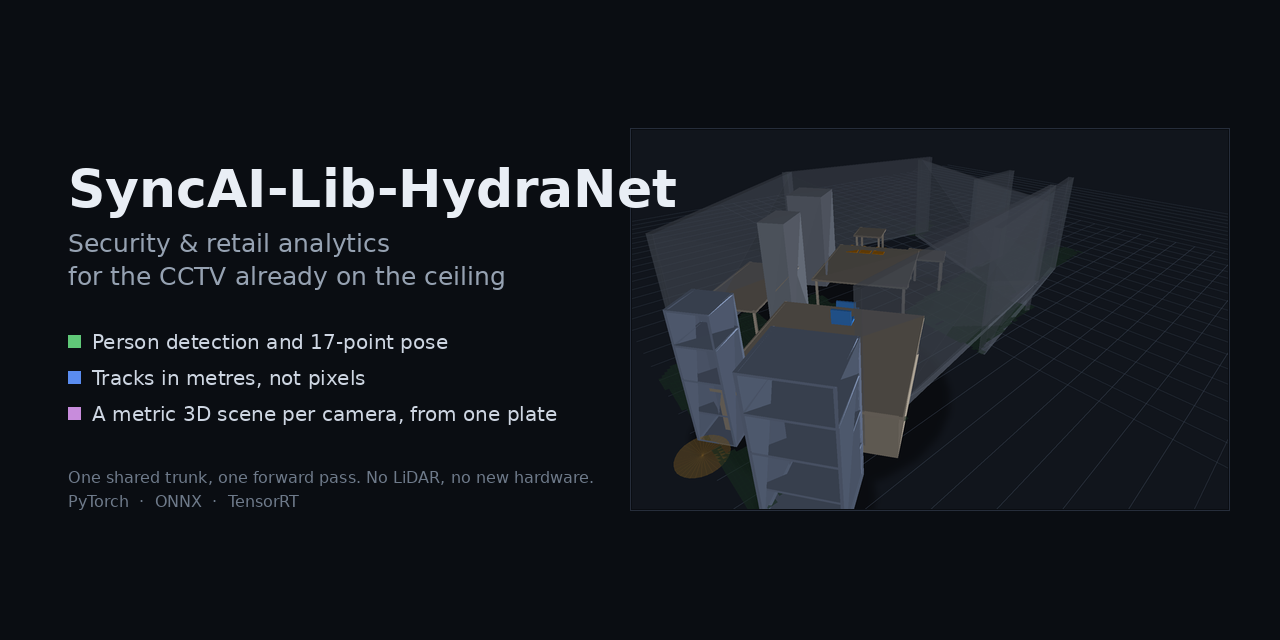
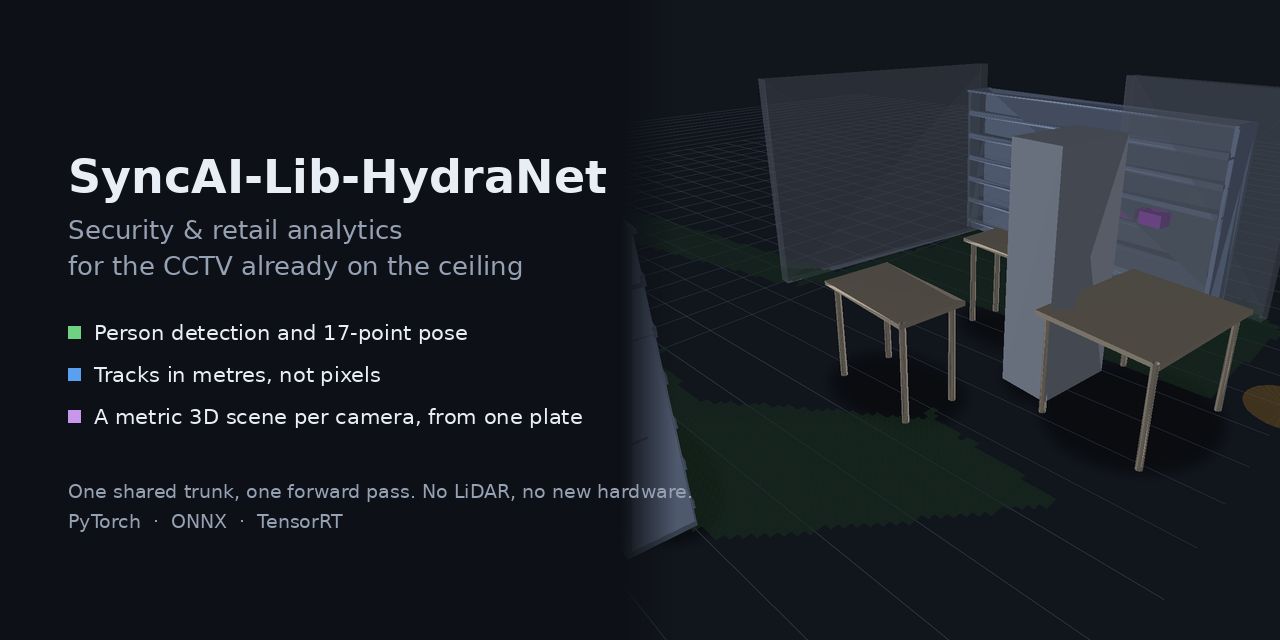
feat(assets): the social card is code, and it leads with a scene the overlay agrees with
`assets/social_preview.png` was made by hand -- the third figure in this repository to
have been, after the README gif and the blur that goes on it. A card nobody can re-make is
a card nobody re-checks when the scene behind it moves, and the scene moved four times on
2026-08-29 alone. The old one showed all three consequences at once: its 3D panel came
from the ragged world-axis path, so it carried the staircase artefact a reviewer reads as
"cabinets at 45 degrees"; the furniture ran off the bottom of its own frame; and its eye
was the fixed (+x, -z) diagonal with a wall standing in it.

None of those is fixed by re-cropping, and none is fixed here that way. The scene comes
from `build_scene_regular`, the corner is chosen, whatever still blocks it fades, and the
panel is **rendered at its own aspect** rather than cropped to it -- cropping a 1180x700
render to a 660x640 panel threw away half the width and left a corner nobody could read.

**Which camera is a judgement about faithfulness, not about looks, and it went against the
prettiest.** Taichung-cam01 has the most furniture and the least faithful reconstruction:
`scene_overlay` puts nine meshes on it and most miss what is underneath. A front page
should not lead with the camera the projection test likes least. Kaohsiung-cam04 is the
most faithful -- three meshes, its long counter verified against the plate -- but its
scene is one counter and three units, and a single wall pane runs the full height and cuts
[…]

Changed region(s): [[0.0312, 0.0938, 1.0, 0.875], [0.0312, 0.5, 0.4688, 0.6875]]

diff --git a/tools/commissioning/social_card.py b/tools/commissioning/social_card.py
@@ -1,0 +1,143 @@
+#!/usr/bin/env python3
+"""The GitHub social preview card, as code.
+
+    uv run python tools/commissioning/social_card.py Kaohsiung-cam04
+
+`assets/social_preview.png` was made by hand, which is the third figure in this repository
+to have been -- after the README gif and the blur that goes on it, both of which are code
+now for the same reason. **A card nobody can re-make is a card nobody can re-check when
+the scene behind it moves**, and the scene moved four times on 2026-08-29 alone.
+
+The previous card showed it. Its 3D panel was cut from the ragged world-axis scene path,
+before `main()` moved to the store frame, so it carried the staircase artefact a reviewer
+reads as "cabinets at 45 degrees"; the furniture ran off the bottom of its own frame; and
+its eye was the fixed (+x, -z) diagonal with a wall standing in it. All three are fixed
+here by construction rather than by re-cropping: the scene comes from
+`build_scene_regular`, the eye is chosen, and the crop is computed from the content.
+
+1280x640 is GitHub's own size for the field.
+"""
+
+from __future__ import annotations
+
+import argparse
+import sys
+from pathlib import Path
+
+import numpy as np
+from PIL import Image, ImageDraw, ImageFont
+
+sys.path.insert(0, str(Path(__file__).resolve().parent))
+import scene_mesh
+
+ROOT = Path("/home/paul/SyncAI-Lib-HydraNet")
+CARD = (1280, 640)
+PANEL_W = 660  # the scene half; the text needs the rest at thumbnail size
+CAPTION_H = 62  # `scene_mesh.render`'s own caption band, rendered then cut
+BG = (13, 16, 22)
+INK = (233, 238, 246)
+DIM = (150, 162, 180)
+BULLETS = (
+    ((110, 210, 130), "Person detection and 17-point pose"),
+    ((90, 160, 240), "Tracks in metres, not pixels"),
+    ((200, 150, 235), "A metric 3D scene per camera, from one plate"),
+)
+
+
+def _font(size: int, bold: bool = False):
+    for name in (
+        "DejaVuSans-Bold.ttf" if bold else "DejaVuSans.ttf",
+        "/usr/share/fonts/truetype/dejavu/DejaVuSans%s.ttf" % ("-Bold" if bold else ""),
+    ):
+        try:
+            return ImageFont.truetype(name, size)
+        except OSError:
+            continue
+    return ImageFont.load_default()
+
+
+def main() -> int:
+    ap = argparse.ArgumentParser(
+        description=__doc__, formatter_class=argparse.RawDescriptionHelpFormatter
+    )
+    # **Taichung-cam11, chosen by looking at the alternatives rather than by convenience.**
+    # Taichung-cam01 has the most furniture and the *least faithful* reconstruction --
+    # `scene_overlay` puts nine meshes on it and most miss what is underneath -- and a
+    # front page should not lead with the camera the projection test likes least.
+    # Kaohsiung-cam04 is the most faithful but its scene is one counter and three units,
+    # and one wall pane runs the full height of the panel and cuts the card in two.
+    # cam11 reads as a room -- two tables, a shelving run with its levels, wall behind --
+    # and its overlay is middling rather than poor.
+    ap.add_argument("camera", nargs="?", default="Taichung-cam11")
+    ap.add_argument("--out", default=str(ROOT / "assets/social_preview.png"))
+    a = ap.parse_args()
+
+    built = scene_mesh.build_scene_regular(a.camera)
+    _cf, items, heights = built[:3]
+    solid = [m for m, name, _al, _s in items if name != "floor"] or [m for m, *_ in items]
+    xs = np.concatenate([m[0][:, 0] for m in solid])
+    zs = np.concatenate([m[0][:, 2] for m in solid])
+    span = max(float(xs.max() - xs.min()), float(zs.max() - zs.min()), 2.0)
+    cx = float((xs.min() + xs.max()) / 2)
+    cz = float((zs.min() + zs.max()) / 2)
+    # The (-x, -z) corner, chosen by looking at all four: it sees into the room rather
+    # than through the wall the default diagonal stands behind. Whatever still blocks it
+    # fades, because `scene_mesh.render` now scores occlusion.
+    eye = [cx - 0.62 * span, 0.46 * span, cz - 0.54 * span]
+    tmp = ROOT / "assets/dev/_social_scene.png"
+    tmp.parent.mkdir(parents=True, exist_ok=True)
+    # **Render at the panel's own aspect rather than cropping to it afterwards.** The
+    # renderer frames the furniture to fill whatever canvas it is given, so asking it for
+    # a 620x640 picture composes the room for that shape; cropping a 1180x700 render down
+    # to the same shape threw away half the width and left a corner nobody could read.
+    w0, h0 = scene_mesh.W, scene_mesh.H
+    scene_mesh.W, scene_mesh.H = PANEL_W, CARD[1] + CAPTION_H
+    try:
+        scene_mesh.render(a.camera, items, heights, tmp, eye=eye, target=[cx, 0.6, cz])
+    finally:
+        scene_mesh.W, scene_mesh.H = w0, h0
+
+    # `render` writes its own two-line commissioning caption at the top. That belongs on a
+    # diagnostic, not on a card, so the canvas is asked for those rows and they are cut --
+    # rather than painting over them, which would leave a bar the caption used to be in.
+    scene = Image.open(tmp).convert("RGB").crop((0, CAPTION_H, PANEL_W, CARD[1] + CAPTION_H))
+    card = Image.new("RGB", CARD, BG)
+    # Full bleed on the right half. Fitting the scene *inside* a box left a band of card
+    # background above and below it, and a preview card is read at thumbnail size where
+    # empty space is the first thing that registers. The scene is cropped to the panel's
+    # aspect around its own centre of mass rather than letterboxed into it.
+    panel = (CARD[0] - PANEL_W, 0, CARD[0], CARD[1])
+    card.paste(scene.resize((PANEL_W, CARD[1]), Image.Resampling.LANCZOS), (panel[0], 0))
+    # a soft edge so the panel does not read as a pasted rectangle
+    fade = Image.new("L", (56, CARD[1]))
+    fd = ImageDraw.Draw(fade)
+    for i in range(56):
+        fd.line([(i, 0), (i, CARD[1])], fill=int(255 * (1 - i / 56)))
+    card.paste(Image.new("RGB", (56, CARD[1]), BG), (panel[0], 0), fade)
+
+    d = ImageDraw.Draw(card)
+    d.text((68, 150), "SyncAI-Lib-HydraNet", font=_font(46, True), fill=INK)
+    d.text((68, 214), "Security & retail analytics", font=_font(26), fill=DIM)
+    d.text((68, 250), "for the CCTV already on the ceiling", font=_font(26), fill=DIM)
+    y = 320
+    for colour, text in BULLETS:
+        d.rectangle([68, y + 6, 80, y + 18], fill=colour)
+        d.text((94, y), text, font=_font(21), fill=INK)
+        y += 42
+    d.text(
+        (68, 480),
+        "One shared trunk, one forward pass. No LiDAR, no new hardware.",
+        font=_font(19),
+        fill=DIM,
+    )
+    d.text((68, 510), "PyTorch  ·  ONNX  ·  TensorRT", font=_font(19), fill=DIM)
+
+    out = Path(a.out)
+    card.save(out)
+    tmp.unlink(missing_ok=True)
+    print(f"wrote {out} ({CARD[0]}x{CARD[1]}, scene from {a.camera})")
+    return 0
+
+
+if __name__ == "__main__":
+    raise SystemExit(main())
